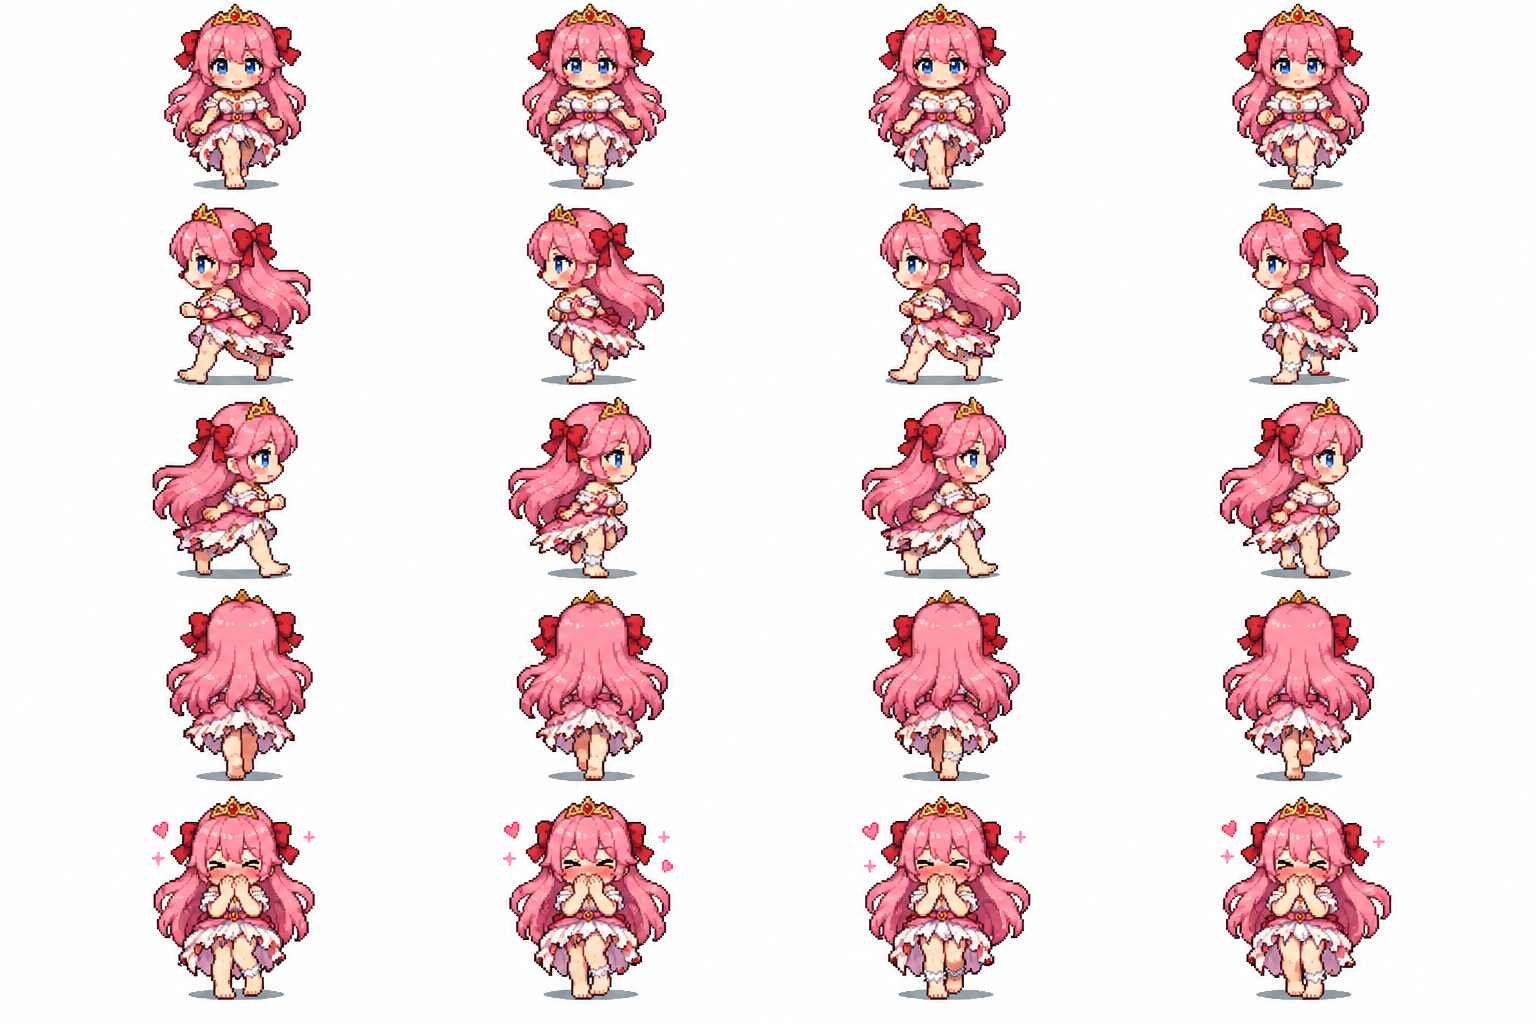
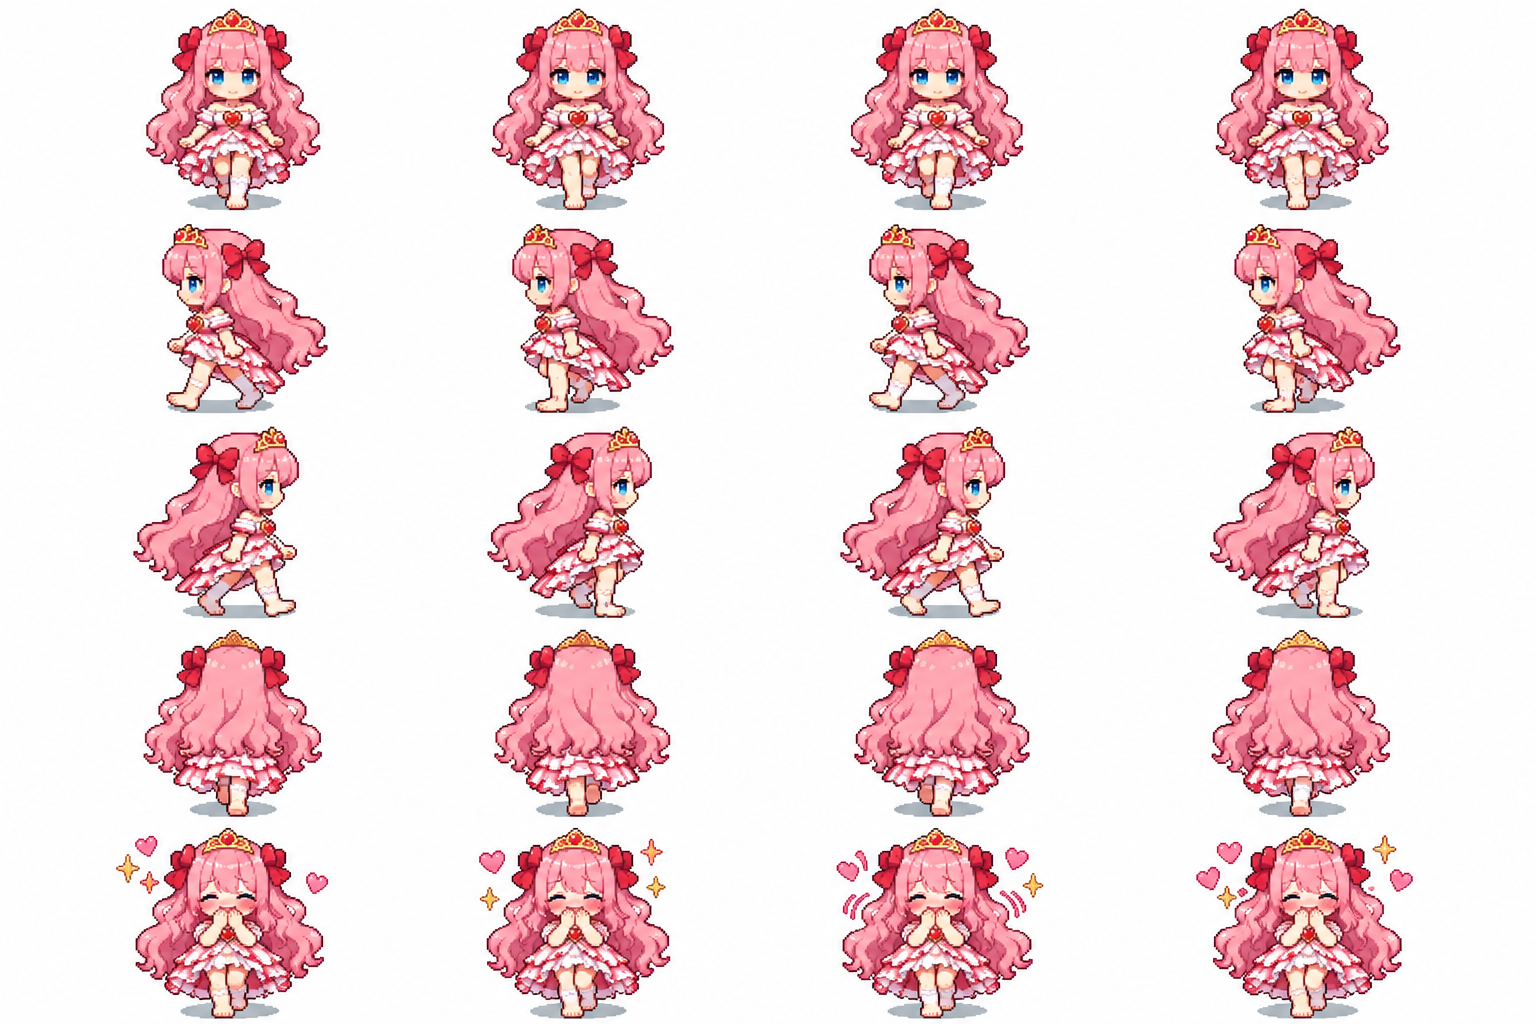
精细像素：粉色公主战损走路重画（憋笑沿用原来那版）+ 小游戏窗口里的人物跟着闷笑换姿势
- 战损走路第五版（参考立绘战损格，去掉飘在头外的汗滴）；战损憋笑用原来那版（pink_damaged_v1 第 5 行），旧图都留着
- TrainingStage.follow_laugh + actor_laugh_ratio + sync_actor_poses：小游戏里的木偶按闷笑同步憋笑 / 失控一 / 失控二；骑士支线的小游戏都打开，双人的另一位跟她自己的数值
- 规则写进 POLISH_RULES 和 polish-rules 技能

diff --git a/tools/art/import_sprites_px64.py b/tools/art/import_sprites_px64.py
@@ -32,7 +32,7 @@ HELPLESS_W = 248
 HELPLESS_H = 200
 WALK_DIRS = ["down", "left", "right", "up"]
 # 每种源表：行数 × 每行帧数
-LAYOUT = {"possessed": [4] * 2, "walk": [4] * 4, "expr": [4] * 2, "damaged": [4] * 5, "helpless": [4] * 2, "magic1": [6] * 3, "magic2": [6] * 3, "attack": [3] * 4}
+LAYOUT = {"possessed": [4] * 2, "walk": [4] * 4, "expr": [4] * 2, "damaged": [4] * 5, "damaged_v1": [4] * 5, "helpless": [4] * 2, "magic1": [6] * 3, "magic2": [6] * 3, "attack": [3] * 4}
 # 待机眨眼 → 图集第 16 / 17 列：半闭眼 / 闭眼（只有正面待机用）。直接在每行正面待机帧上合上眼睛（close_eyes），和走路图一模一样不跳画风；
 # 找不到两只眼睛的行（本来就闭着眼、失控……）复制待机帧（不眨）
 BLINK_HALF_COL = 16
@@ -164,11 +164,14 @@ def place(im, cell, margin=4):
 
 def build(char):
     prefix, out_name = CHARS[char]
-    src = {k: frames(prefix, k) for k in ("walk", "expr", "damaged", "helpless", "magic1", "magic2") if (SRC / ("%s_%s.png" % (prefix, k))).exists()}
+    src = {k: frames(prefix, k) for k in ("walk", "expr", "damaged", "damaged_v1", "helpless", "magic1", "magic2") if (SRC / ("%s_%s.png" % (prefix, k))).exists()}
     scales = {k: sheet_scale(k, [f for row in rows for f in row]) for k, rows in src.items()}
     snapped = {k: [[snap(f, scales[k]) for f in row] for row in rows] for k, rows in src.items()}
     s = scales["walk"]
     W, E, D, H = snapped["walk"], snapped["expr"], snapped["damaged"], snapped["helpless"]
+    # 战损憋笑（正面那一行）用原来那版（<p>_damaged_v1.png 第 5 行，用户喜欢原来的憋笑）；战损走路用新画的
+    if "damaged_v1" in snapped:
+        D = D[:4] + [snapped["damaged_v1"][4]]
     cols = WALK_SHUT_BASE + WALK_BLINK_DIRS * 4
     sheet = Image.new("RGBA", (CELL * cols, CELL * len(EMOTIONS)))
     for r, name in enumerate(EMOTIONS):

diff --git a/tools/art/src/px64/prompts.md b/tools/art/src/px64/prompts.md
@@ -14,7 +14,7 @@ codex CLI 内置 image_gen 直接画像素画（不做程序像素化）；`tool
 
 > pink_walk.png — NORMAL outfit: white knee-high socks and pink Mary-Jane shoes, gentle smile. Layout: exactly 4 rows x 4 columns: row 1 = walking toward the viewer (front), row 2 = walking to the LEFT (side view, facing left), row 3 = walking to the RIGHT (side view, facing right), row 4 = walking away (back view).
 > pink_expr.png — NORMAL outfit (white knee-high socks, pink shoes), every figure STANDING upright facing the viewer in the same relaxed pose as row 1 frame 1 of ref_style_walk.png (not crouching, not sitting). Layout: exactly 2 rows x 4 columns, each a different expression: row 1 = normal gentle smile, happy (eyes closed big smile), angry (puffed cheeks, frowning), sad (teary eyes); row 2 = surprised (wide eyes, small open mouth), shy (blushing, looking down, hands together), holding back laughter (cheeks puffed, eyes squeezed, both hands over mouth, tiny sweat drop), laughing out loud (mouth open, tears of laughter, hands on tummy).
-> pink_damaged.png — BATTLE-WORN outfit exactly like the 'damaged' portraits in ref_pink_portraits_all.png: the same off-shoulder dress slightly frayed and ruffled at the hem, BAREFOOT (both feet bare, small feet with toes), only a torn scrap of white lace sock around one ankle, flustered blush and a tiny sweat drop. Layout: exactly 5 rows x 4 columns: row 1 = walking toward the viewer (front), row 2 = walking LEFT (side), row 3 = walking RIGHT (side), row 4 = walking away (back), row 5 = four front-facing frames of her holding back laughter in the battle-worn outfit (eyes squeezed shut, hands over mouth, little hearts / sparkles near her head), a small 4-frame jiggle.
+> pink_damaged.png — BATTLE-WORN outfit exactly like the 'damaged' portraits in ref_pink_portraits_all.png: the same off-shoulder dress slightly frayed and ruffled at the hem, BAREFOOT (both feet bare, small feet with toes), only a torn scrap of white lace sock around one ankle, flustered blush. Layout: exactly 5 rows x 4 columns: row 1 = walking toward the viewer (front), row 2 = walking LEFT (side), row 3 = walking RIGHT (side), row 4 = walking away (back), row 5 = four front-facing frames of her holding back laughter in the battle-worn outfit (eyes squeezed shut, hands over mouth, little hearts / sparkles near her head), a small 4-frame jiggle.
 > pink_helpless.png — Layout: exactly 2 rows x 4 columns. Row 1 = 'giggling helplessly': battle-worn outfit, barefoot, she has collapsed sitting on the ground with legs out to the front, hugging her tummy and laughing with tears, 4 frames of her swaying while laughing (hearts and sparkles). Row 2 = 'laughing on the floor': battle-worn outfit, barefoot, lying on her back on the ground laughing hard with tears, her two bare feet kicking up alternately, 4 frames. Each figure exactly two legs and two feet.
 > pink_magic1.png — MAGIC poses, all FRONT view, 6 frames per row (a short animation from left to right). Layout: exactly 3 rows x 6 columns: row 1 = CHANT in the normal outfit (white knee socks, pink shoes): hands clasped at her chest, eyes closed, a growing pink-gold magic circle and sparkles; row 2 = BURST in the normal outfit: arms thrown open, a bright burst of pink stars expanding around her; row 3 = CHANT in the battle-worn outfit (barefoot, frayed dress): same chant animation. The magic effects stay close to her body inside each cell.
 > pink_magic2.png — MAGIC poses, all FRONT view, 6 frames per row. Layout: exactly 3 rows x 6 columns: row 1 = CHANT while holding back laughter in the battle-worn outfit (barefoot): trying to chant but cheeks puffed and shoulders shaking, magic circle flickering; row 2 = BURST in the battle-worn outfit (barefoot): arms thrown open, a burst of pink stars; row 3 = BURST while laughing in the battle-worn outfit: bursting magic while laughing with tears, stars and hearts. The magic effects stay close to her body inside each cell.

diff --git a/docs/POLISH_RULES.md b/docs/POLISH_RULES.md
@@ -33,6 +33,12 @@
      - **不要**给失控 / 憋笑状态写 `anim: idle`（idle 只有一帧）。
      - 教训（攻防战失败小剧场的精灵定格过）：`cg_player._build_cast` 的 npc 分支以前忽略 `visual` / `anim`，`CGActor.make_npc` 强制 `idle`（只有一帧），`pose` 动作只换行不换动画。
      - 自动检查：`cg_test` 的「小剧场里的精灵都会动」遍历所有 `data/theater/**`。
+   - **小游戏窗口里的人物也要跟着闷笑度换姿势**（憋笑 → 失控一 → 失控二）：
+     - 小游戏（`TrainingStage` / `ErrandWorkStage` 子类）里的人物是 `CGActor` 木偶，开场摆个 `normal` 以后不会自己变；
+     - 打开 `follow_laugh = true`（在 `_init` 里设），`TrainingStage._update_bars` 每帧按 `actor_laugh_ratio(id)` 同步姿势（`sync_actor_poses`）；
+     - 玩家那位（`princess`）默认读真闷笑；双人的小游戏覆盖 `actor_laugh_ratio`，让另一位跟她自己的数值（如 `blue_laugh`）；
+     - 爆发、施法等特殊姿势不会被覆盖。
+     - 教训：骑士篇支线的熬药 / 派对 / 点灯笼 / 莉莉对决开场 `set_pose("normal")` 以后一直不变，而且覆盖了 `_punish`，连失控姿势都没有。
 2. **挠痒特效、抖动都要出现在图上**：
    - 每一句「正在挠」的台词，都配一条 `tickle` 指令（`who / by / repeat / interval / fx`）；
    - 横版 CG 大图上的命中贴片、抖动、飘字由 `cg_tickle` / `Dialogue.shake_portrait` 自动处理，前提是那一步有 `tickle`；
